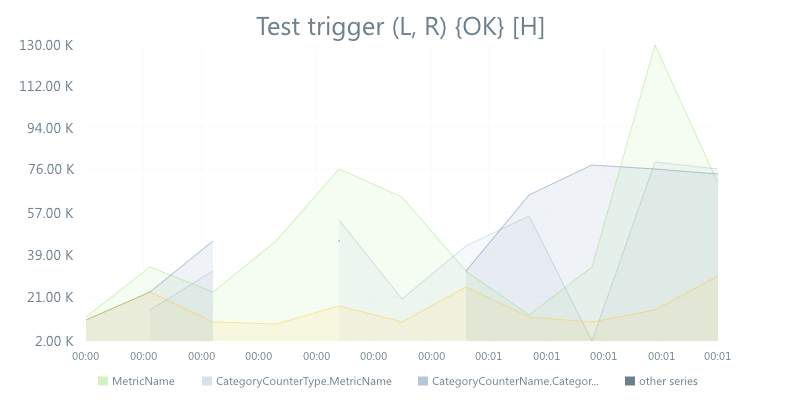
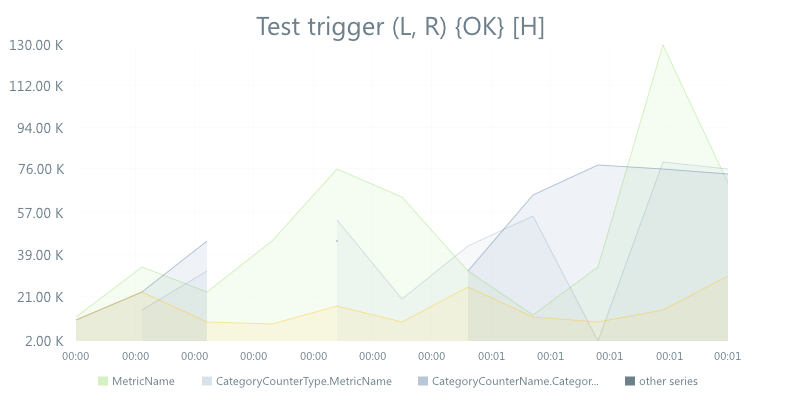
refactor styles

diff --git a/plotting/themes/light/light.go b/plotting/themes/light/light.go
@@ -61,6 +61,9 @@ func (theme *PlotTheme) GetCanvasStyle() chart.Style {
 func (theme *PlotTheme) GetBackgroundStyle(maxMarkLen int) chart.Style {
 	verticalShift := 40
 	horizontalShift := 20
+	if maxMarkLen > 4 {
+		horizontalShift = horizontalShift/2
+	}
 	return chart.Style{
 		FillColor: drawing.ColorFromHex(theme.bgColor),
 		Padding: chart.Box{
@@ -77,9 +80,9 @@ func (theme *PlotTheme) GetThresholdStyle(thresholdType string) chart.Style {
 	var thresholdColor string
 	switch thresholdType {
 	case "ERROR":
-		thresholdColor = `ed2e18`
+		thresholdColor = `8b0000`
 	case "WARN":
-		thresholdColor = `f79520`
+		thresholdColor = `cccc00`
 	}
 	return chart.Style{
 		Show:        true,
@@ -95,9 +98,9 @@ func (theme *PlotTheme) GetAnnotationStyle(thresholdType string) chart.Style {
 	var annotationColor string
 	switch thresholdType {
 	case "ERROR":
-		annotationColor = `ed2e18`
+		annotationColor = `8b0000`
 	case "WARN":
-		annotationColor = `f79520`
+		annotationColor = `cccc00`
 		rightBoxDimension = 9
 	}
 	return chart.Style{

diff --git a/plotting/legend.go b/plotting/legend.go
@@ -33,7 +33,7 @@ func getPlotLegend(c *chart.Chart, legendStyle chart.Style, plotWidth int) chart
 						foundLabels[legendLabel] = true
 						legendLabel = sanitizeLabelName(legendLabel, maxLabelLength)
 						labels = append(labels, legendLabel)
-						lines = append(lines, s.GetStyle())
+						lines = append(lines, inheritFrom(s.GetStyle()))
 						if labelsCount == maxLabelsCount-1 {
 							break
 						}
@@ -87,4 +87,13 @@ func getPlotLegend(c *chart.Chart, legendStyle chart.Style, plotWidth int) chart
 			}
 		}
 	}
+}
+
+// inheritFrom inherits style from initial to make sure marker will be added
+func inheritFrom(initial chart.Style) chart.Style {
+	if initial.StrokeColor.IsZero() {
+		initial.StrokeColor = initial.DotColor
+		initial.StrokeWidth = 1
+	}
+	return initial
 }

diff --git a/plotting/themes/dark/dark.go b/plotting/themes/dark/dark.go
@@ -61,6 +61,9 @@ func (theme *PlotTheme) GetCanvasStyle() chart.Style {
 func (theme *PlotTheme) GetBackgroundStyle(maxMarkLen int) chart.Style {
 	verticalShift := 40
 	horizontalShift := 20
+	if maxMarkLen > 4 {
+		horizontalShift = horizontalShift/2
+	}
 	return chart.Style{
 		FillColor: drawing.ColorFromHex(theme.bgColor),
 		Padding: chart.Box{
